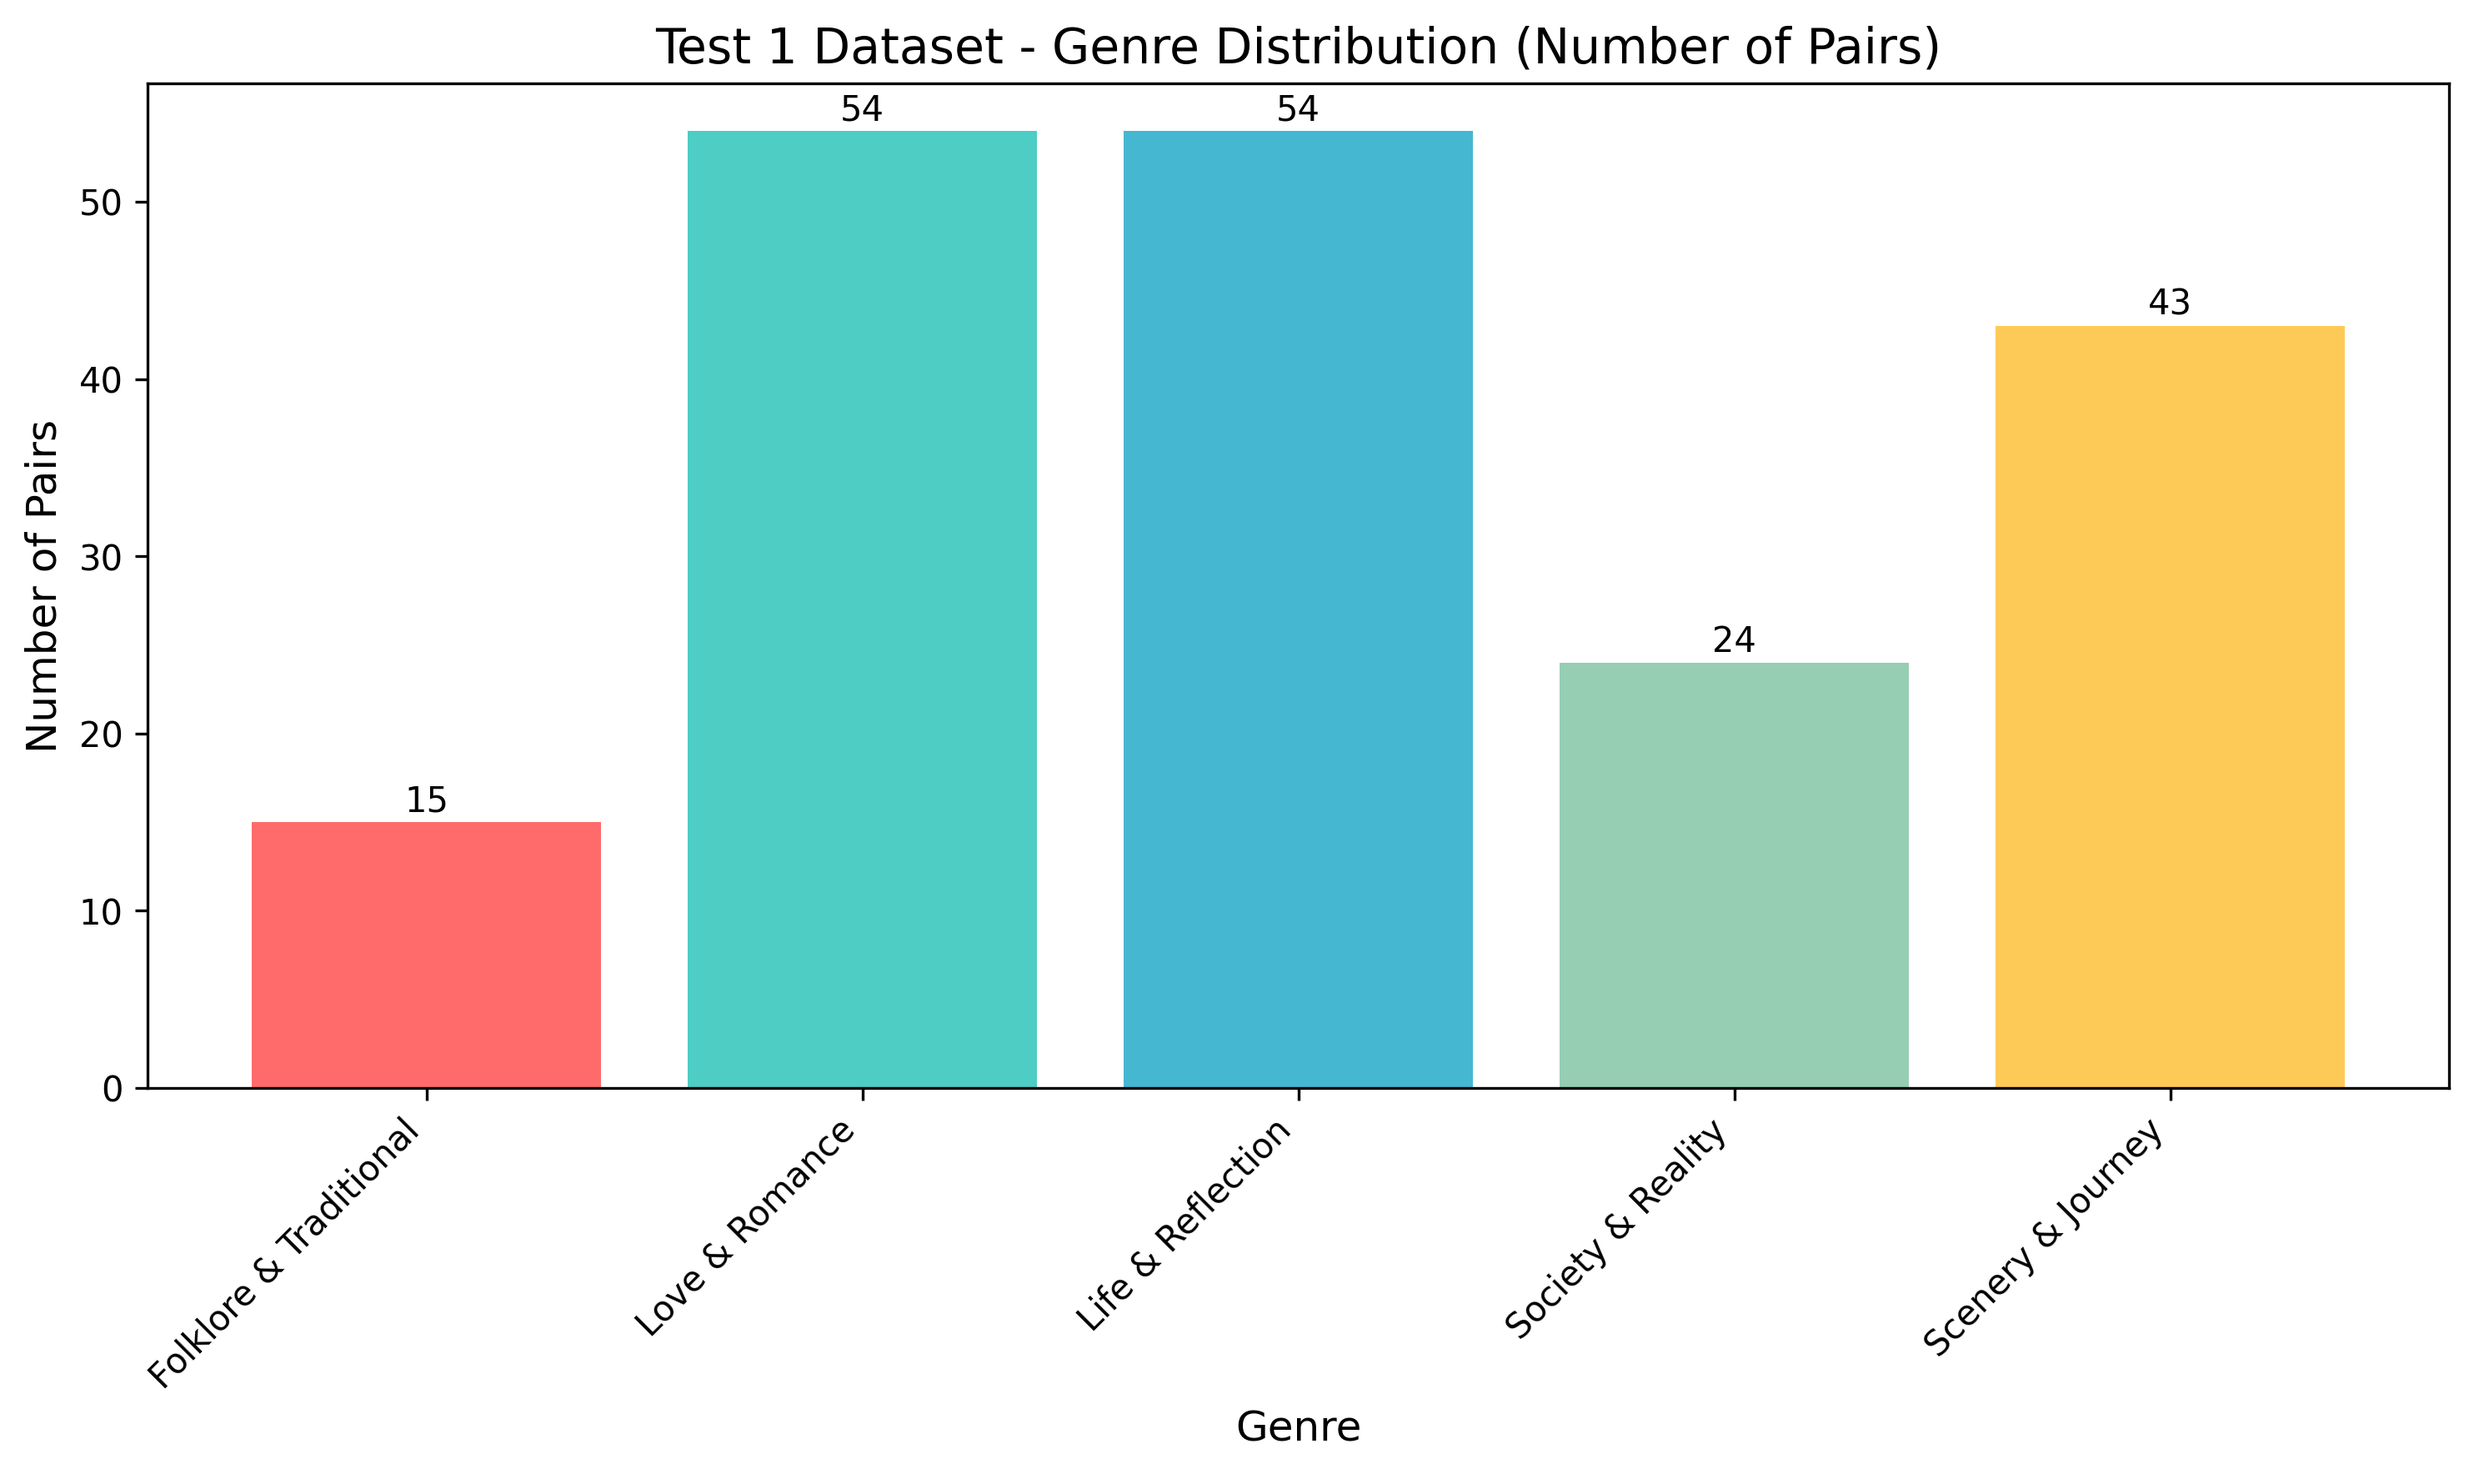
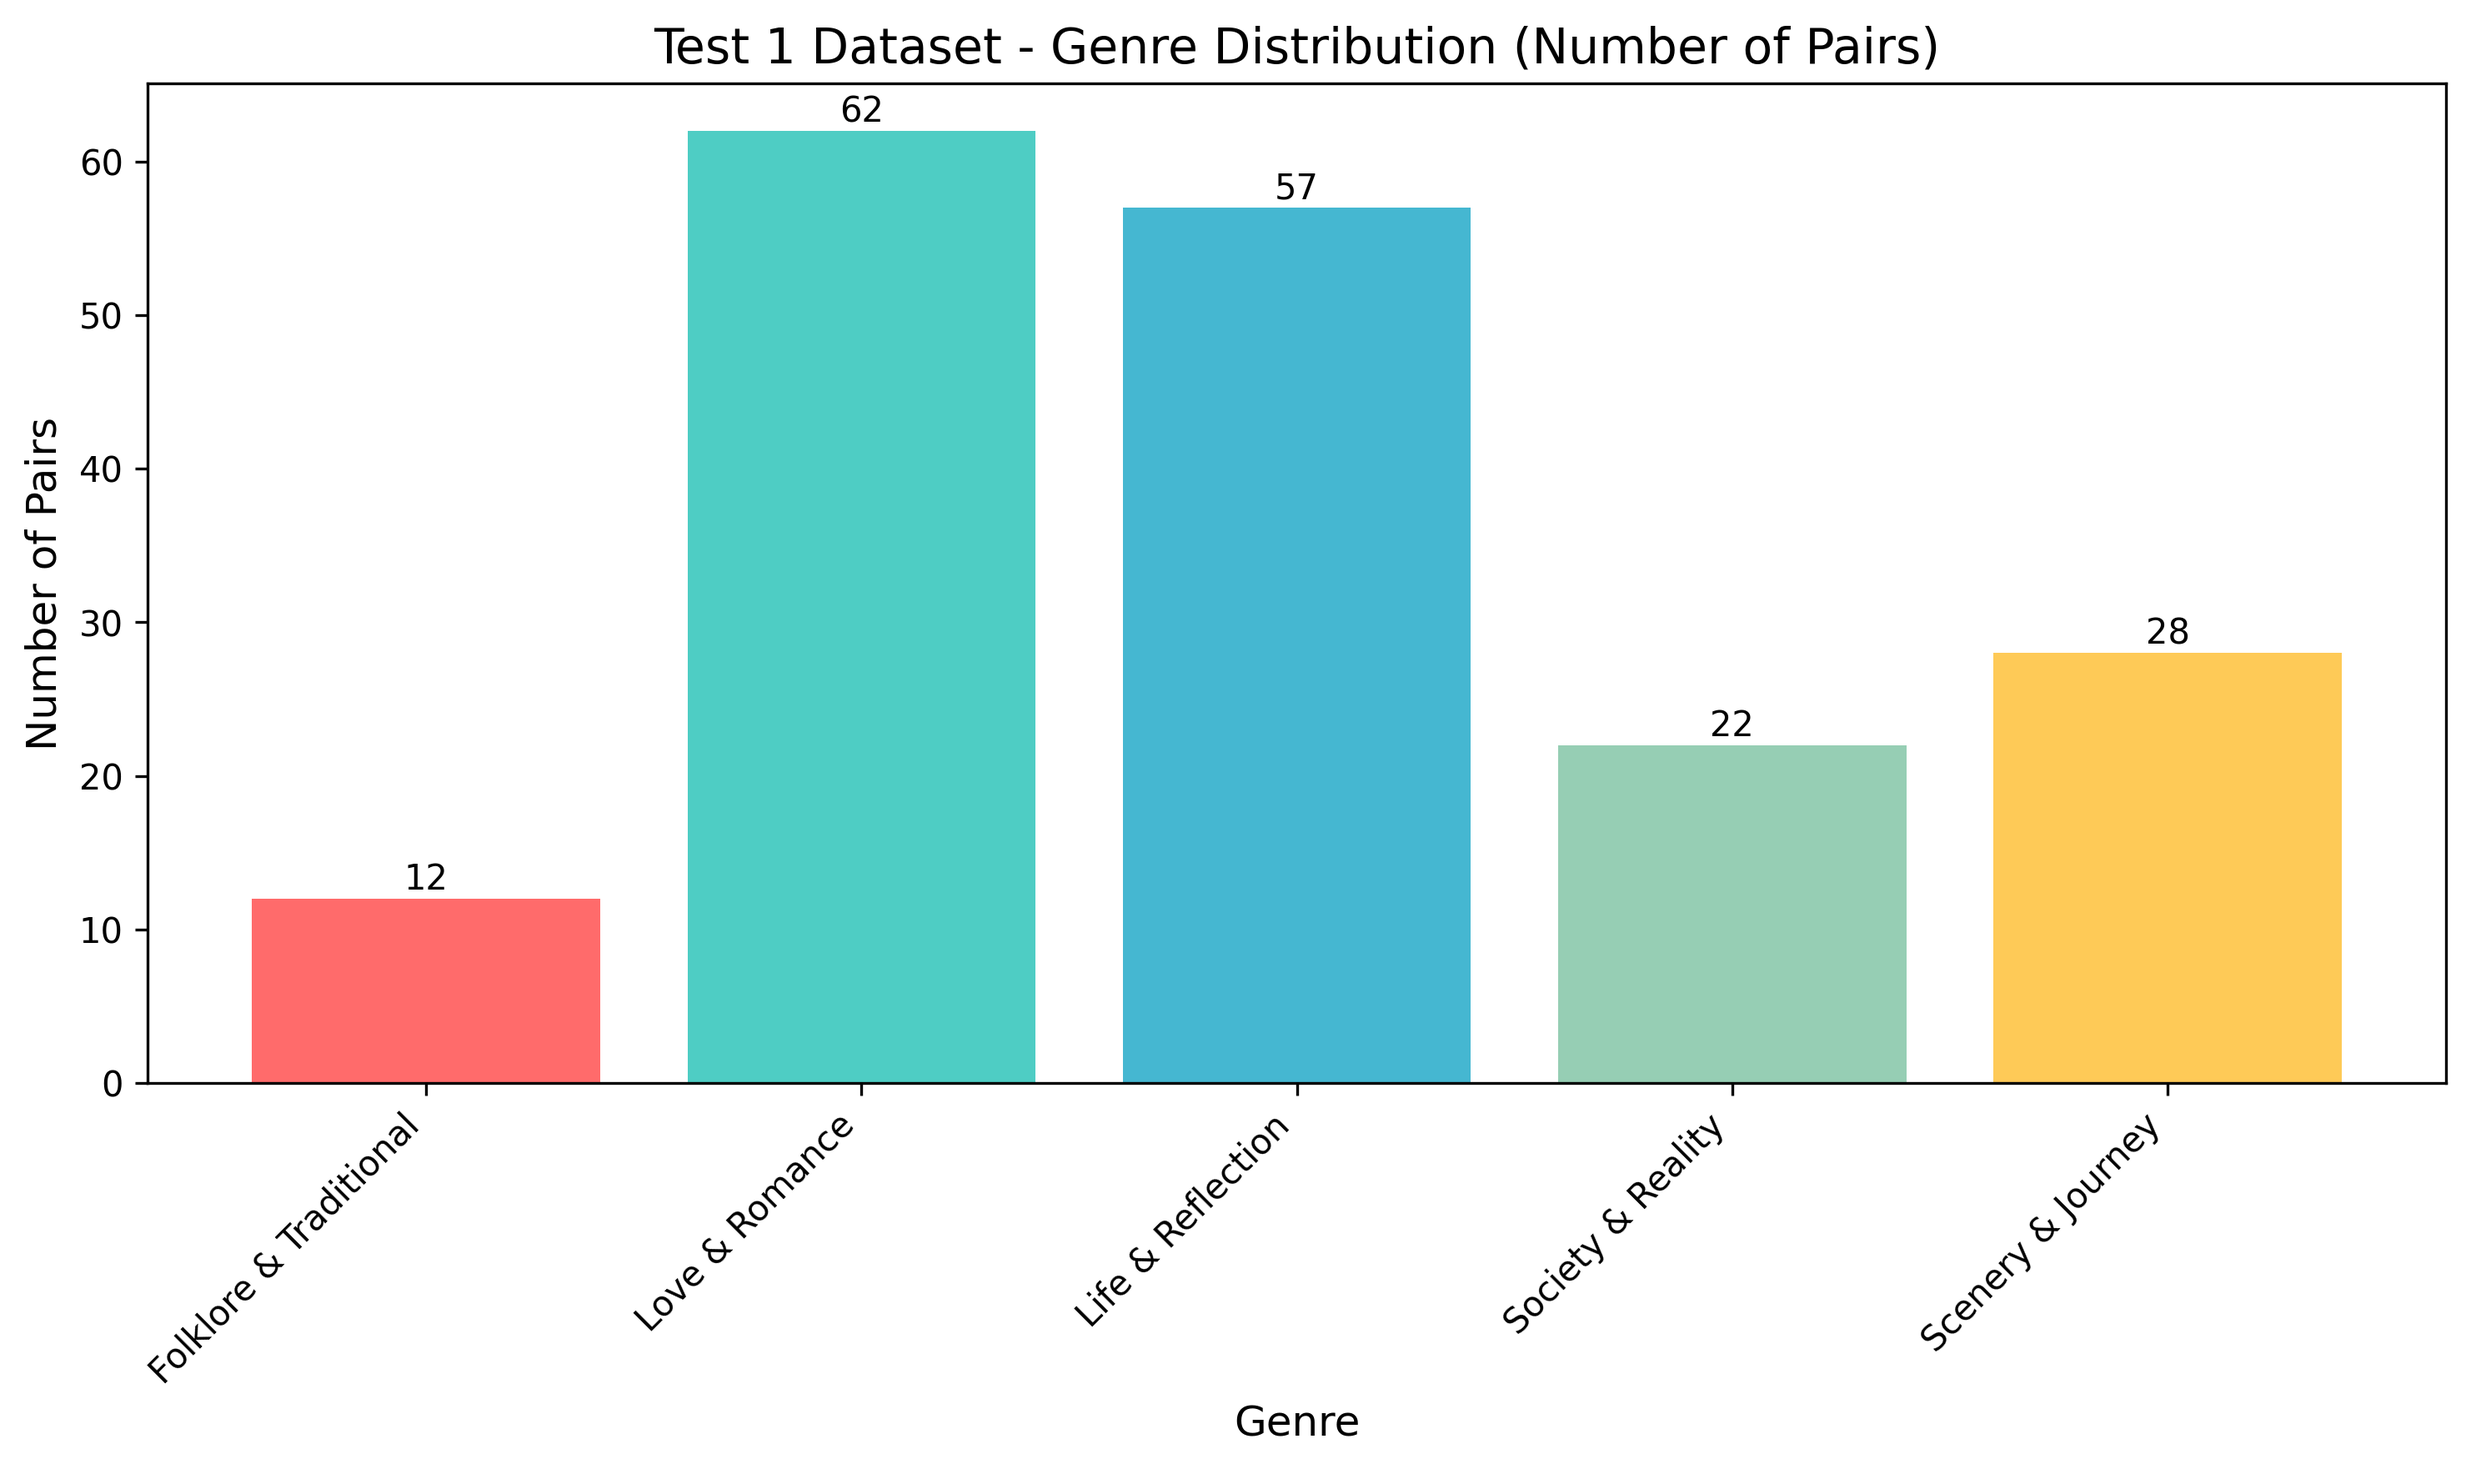
Update test2 for better analysis.

diff --git a/data/train_test_stats.py b/data/train_test_stats.py
@@ -1,8 +1,13 @@
 import json
 from collections import defaultdict, Counter
+import matplotlib
+matplotlib.use('Agg')  # Use non-interactive backend
 import matplotlib.pyplot as plt
 import numpy as np
 import sys
+
+# Turn off interactive mode to ensure figures are saved properly
+plt.ioff()
 
 # ------------ Load Datasets ------------
 
@@ -123,6 +128,12 @@ with open('../results/train_test_stats.txt', 'w', encoding='utf-8') as output_fi
     validate_coverage("Test_1", test_1_data)
     validate_coverage("Test_2", test_2_data)
 
+    # ------------ Generate Visualizations ------------
+    print_both("\n-------- GENERATING VISUALIZATIONS --------")
+    print_both("Visualizations saved to ../images/")
+    print_both("- Genre breakdown: train_genre_dist.png, test1_genre_dist.png, test2_genre_dist.png")
+    print_both("- Category distribution: train_category_dist.png, test1_category_dist.png, test2_category_dist.png")
+
 # ------------ Visualization Functions ------------
 
 def plot_genre_breakdown(data, dataset_name, filename):
@@ -165,7 +176,7 @@ def plot_genre_breakdown(data, dataset_name, filename):
 
     for bar in bars:
         height = bar.get_height()
-        plt.text(bar.get_x() + bar.get_width()/2., height + 0.2,
+        plt.text(bar.get_x() + bar.get_width()/2., height + 0.1,
                  f'{int(height)}', ha='center', va='bottom')
 
     plt.tight_layout()
@@ -239,20 +250,14 @@ def plot_category_distribution(data, dataset_name, filename):
     plt.savefig(filename, dpi=300, bbox_inches='tight')
     plt.close()
 
-# ------------ Generate Visualizations ------------
+# visualization
+plot_genre_breakdown(train_data, "Training Dataset", "../images/train_genre_dist.png")
+plot_genre_breakdown(test_1_data, "Test 1 Dataset", "../images/test1_genre_dist.png")
+plot_genre_breakdown(test_2_data, "Test 2 Dataset", "../images/test2_genre_dist.png")
 
-    print_both("\n-------- GENERATING VISUALIZATIONS --------")
+plot_category_distribution(train_data, "Training Dataset", "../images/train_category_dist.png")
+plot_category_distribution(test_1_data, "Test 1 Dataset", "../images/test1_category_dist.png")
+plot_category_distribution(test_2_data, "Test 2 Dataset", "../images/test2_category_dist.png")
 
-    plot_genre_breakdown(train_data, "Training Dataset", "../images/train_genre_dist.png")
-    plot_genre_breakdown(test_1_data, "Test 1 Dataset", "../images/test1_genre_dist.png")
-    plot_genre_breakdown(test_2_data, "Test 2 Dataset", "../images/test2_genre_dist.png")
-
-    plot_category_distribution(train_data, "Training Dataset", "../images/train_category_dist.png")
-    plot_category_distribution(test_1_data, "Test 1 Dataset", "../images/test1_category_dist.png")
-    plot_category_distribution(test_2_data, "Test 2 Dataset", "../images/test2_category_dist.png")
-
-    print_both("Visualizations saved to ../images/")
-    print_both("- Genre breakdown: train_genre_dist.png, test1_genre_dist.png, test2_genre_dist.png")
-    print_both("- Category distribution: train_category_dist.png, test1_category_dist.png, test2_category_dist.png")
-
-print("Statistics have been exported to ../train_test_stats.txt")
+print("Statistics have been exported to ../results/train_test_stats.txt")
+print("Visualizations generated and saved to ../images/")

diff --git a/data/construct_test_2.py b/data/construct_test_2.py
@@ -46,22 +46,14 @@ for i in range(len(all_data)):
         })
 
 # smoothing multiplier
-def balance_categories(data, M=3):
+def balance_categories(data):
     cats = {1: [], 2: [], 3: [], 4: []}
     for item in data:
         cats[item["category"]].append(item)
 
     c1, c2, c3, c4 = map(len, (cats[1], cats[2], cats[3], cats[4]))
 
-    scale = max(c1, c4)
-    # cap2 = M * scale
-    # cap3 = M * scale
-
-    # t2 = min(c2, cap2)
-    # t3 = min(c3, cap3)
-
-    random.shuffle(cats[2])
-    random.shuffle(cats[3])
+    scale = 10 #min(c1, c2, c3, c4)
 
     result = []
     result.extend(cats[1][:scale])
@@ -118,8 +110,8 @@ def genre_smoothing(data, M_genre=3):
     random.shuffle(result)
     return result
 
-test2_data = genre_smoothing(test2_data, M_genre=3)
-test2_data = balance_categories(test2_data, M=3)
+test2_data = genre_smoothing(test2_data, M_genre=1)
+test2_data = balance_categories(test2_data)
 
 
 with open("../json/testing_data_2.json", "w") as f:

diff --git a/data/split_train_and_test_1.py b/data/split_train_and_test_1.py
@@ -60,7 +60,7 @@ for i in range(len(all_data)):
 # ----------------------------
 # Balancing
 # ----------------------------
-def balance_categories(data, M=3):
+def balance_categories(data):
     cats = {1: [], 2: [], 3: [], 4: []}
     for item in data:
         cats[item["category"]].append(item)
@@ -69,14 +69,11 @@ def balance_categories(data, M=3):
 
     scale = min(c1, c2, c3, c4)
 
-    random.shuffle(cats[2])
-    random.shuffle(cats[3])
-
     result = []
     result.extend(cats[1][:scale])
-    result.extend(cats[4][:2*scale])
-    result.extend(cats[2][:3*scale])
+    result.extend(cats[2][:scale])
     result.extend(cats[3][:scale])
+    result.extend(cats[4][:scale])
 
     random.shuffle(result)
     return result
@@ -125,7 +122,7 @@ def genre_smoothing(data, M_genre=3):
 
 
 all_pairs = genre_smoothing(all_pairs, M_genre=1)
-all_pairs = balance_categories(all_pairs, M=1)
+all_pairs = balance_categories(all_pairs)
 
 
 # ----------------------------
